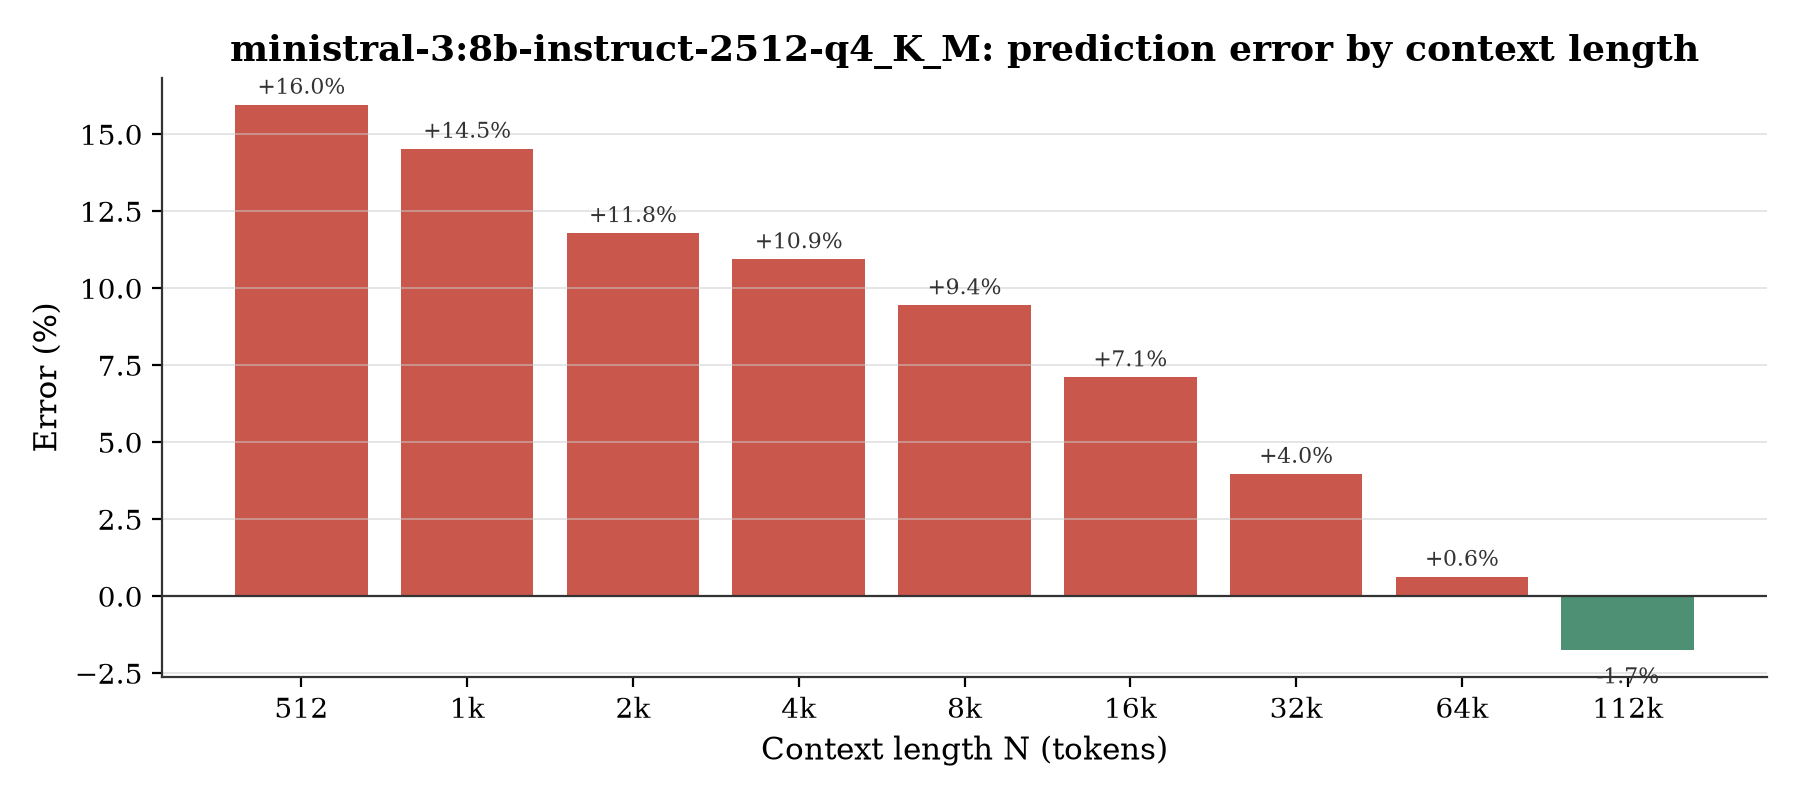
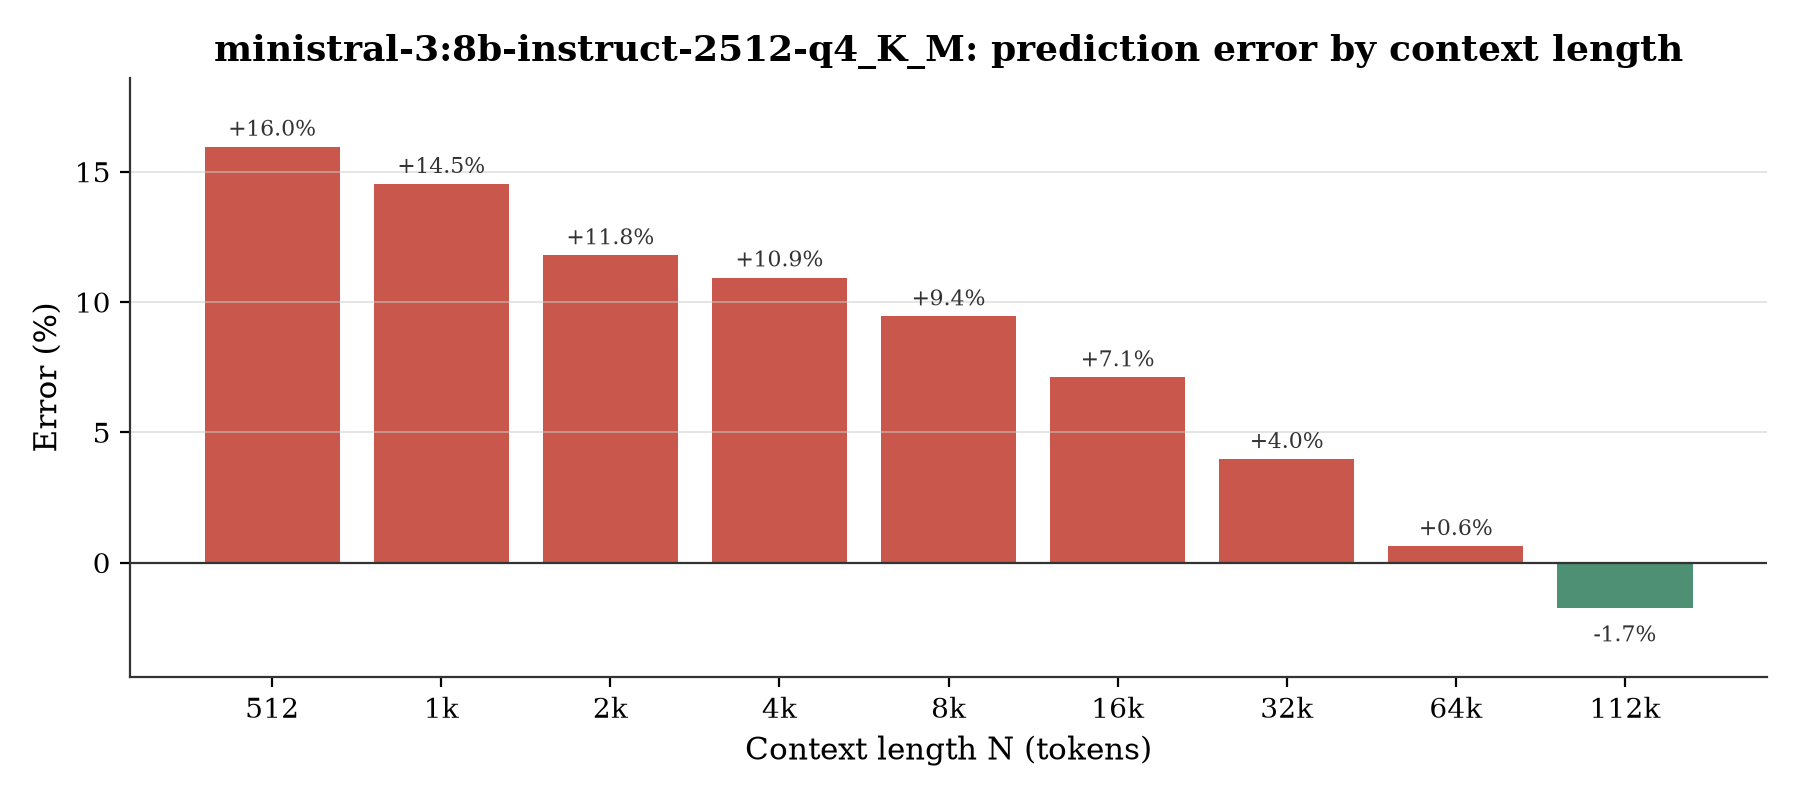
Update the plot for not overlaping text

diff --git a/analysis/rq4/rq4_experiment.py b/analysis/rq4/rq4_experiment.py
@@ -594,6 +594,18 @@ def plot_error(summary: pd.DataFrame, model_name: str) -> None:
             for n in summary["context_length"]
         ]
         ax.bar(labels, summary["pct_error"], color=colors, alpha=0.85)
+
+        # Auto-scaled ylim is fit to bar heights only, not the offset annotation
+        # text above/below each bar. A small-magnitude bar near the axis floor
+        # (e.g. a lone negative bar) then gets its label pushed past the axis
+        # line into the tick labels. Padding both ends of the range, with a
+        # floor so a near-zero min/max still reserves real room, keeps every
+        # annotation clear of the plot border regardless of the data mix.
+        y_min = summary["pct_error"].min()
+        y_max = summary["pct_error"].max()
+        y_pad = max((y_max - y_min) * 0.15, 2.0)
+        ax.set_ylim(y_min - y_pad, y_max + y_pad)
+
         for i, pct in enumerate(summary["pct_error"]):
             ax.annotate(
                 f"{pct:+.1f}%",
